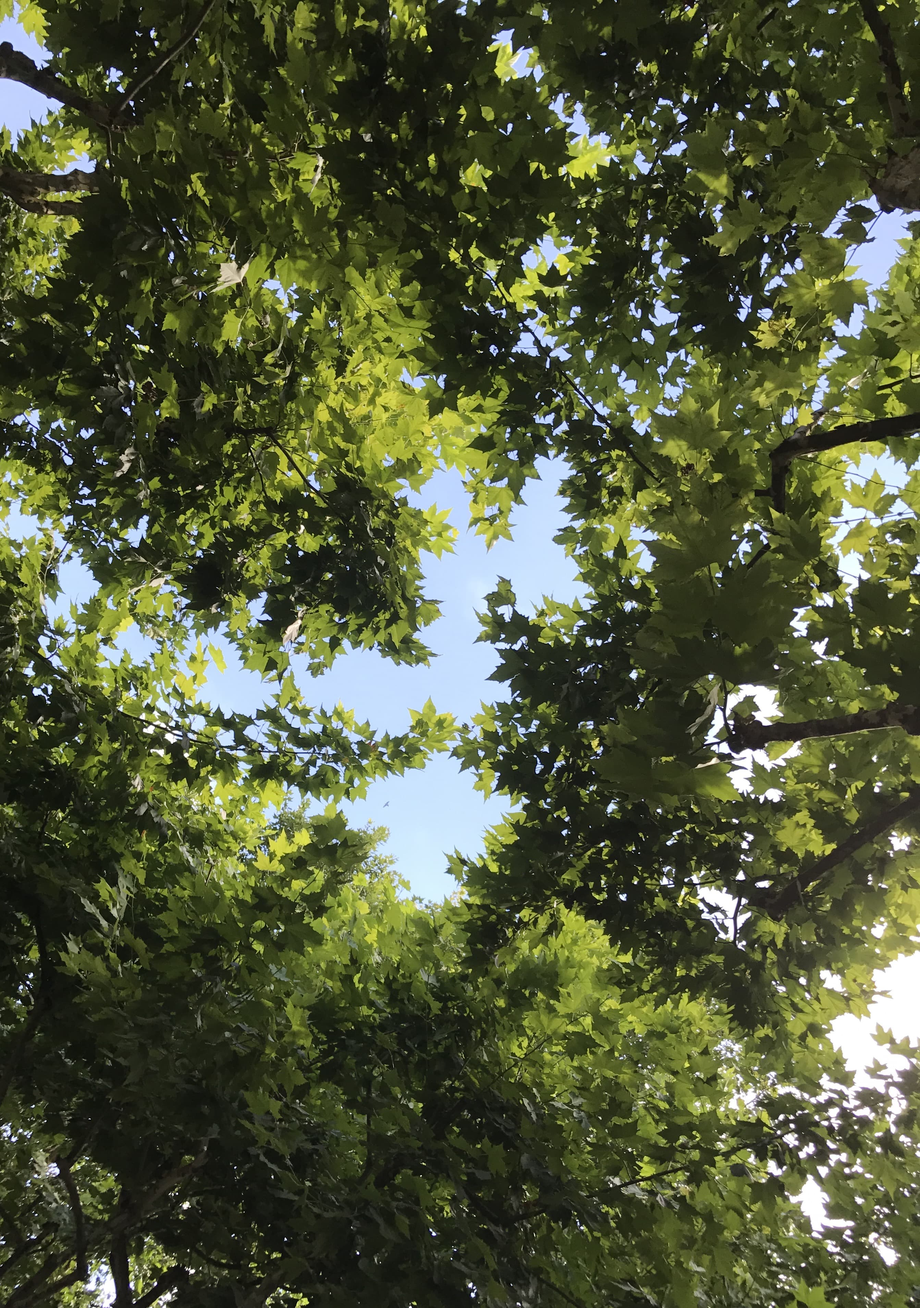
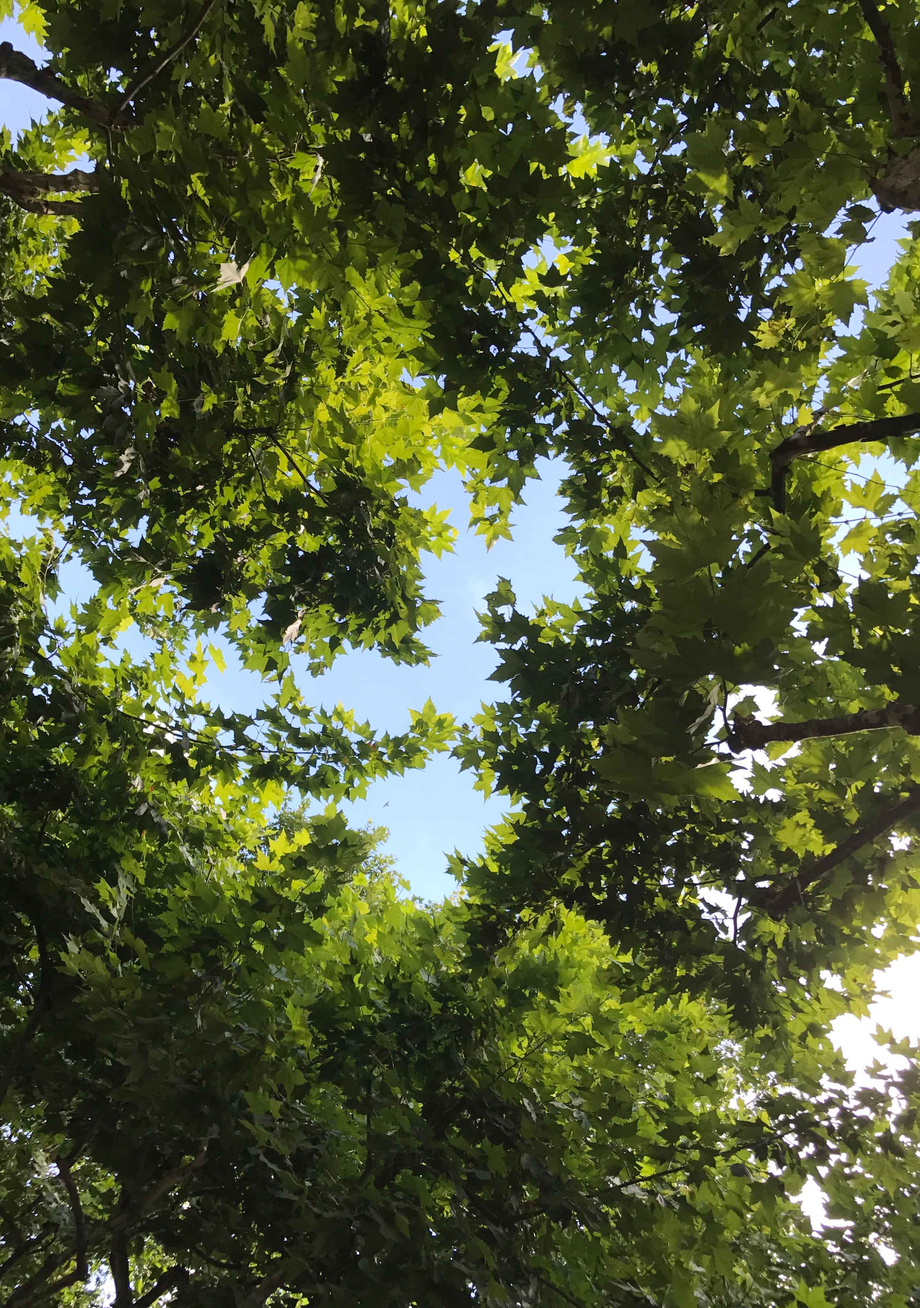
1. 压缩背景图 2.修改readme

diff --git a/README.md b/README.md
@@ -1,4 +1,5 @@
 # alians_blog
 一个个人博客新坑
+Url: http://www.wzlian.me
 
 update:20170520 第一个版本发布
